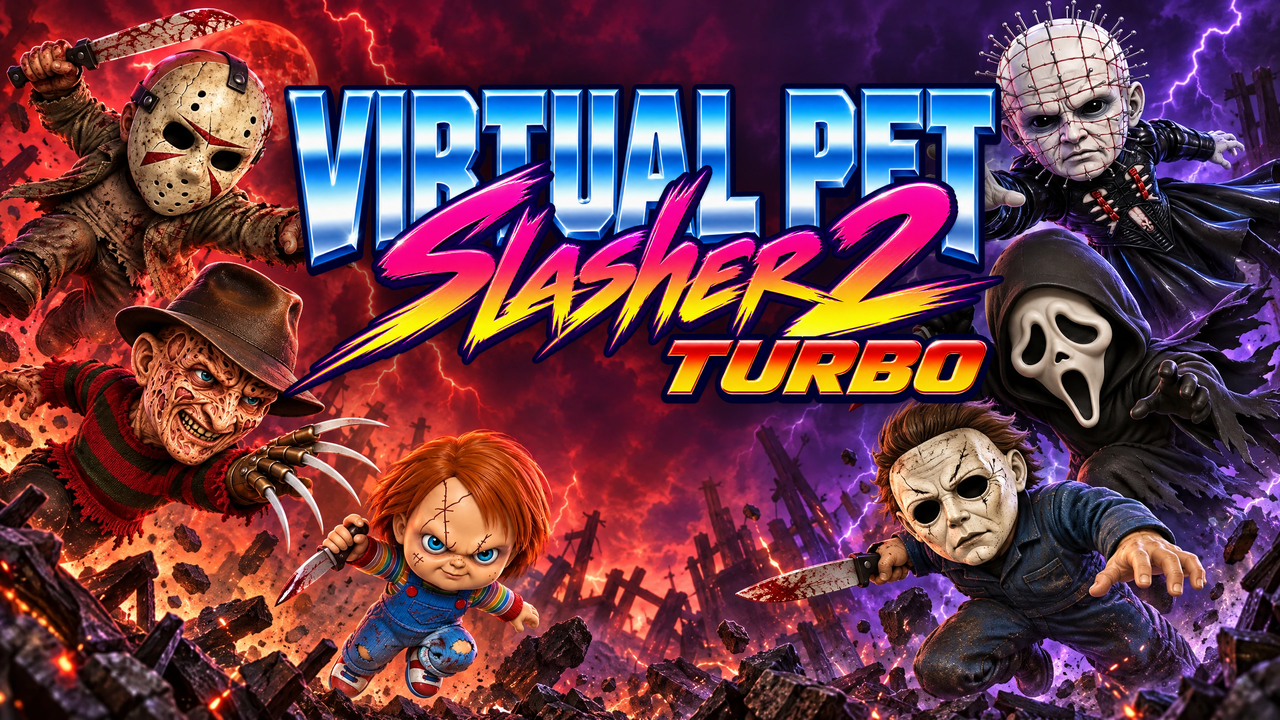
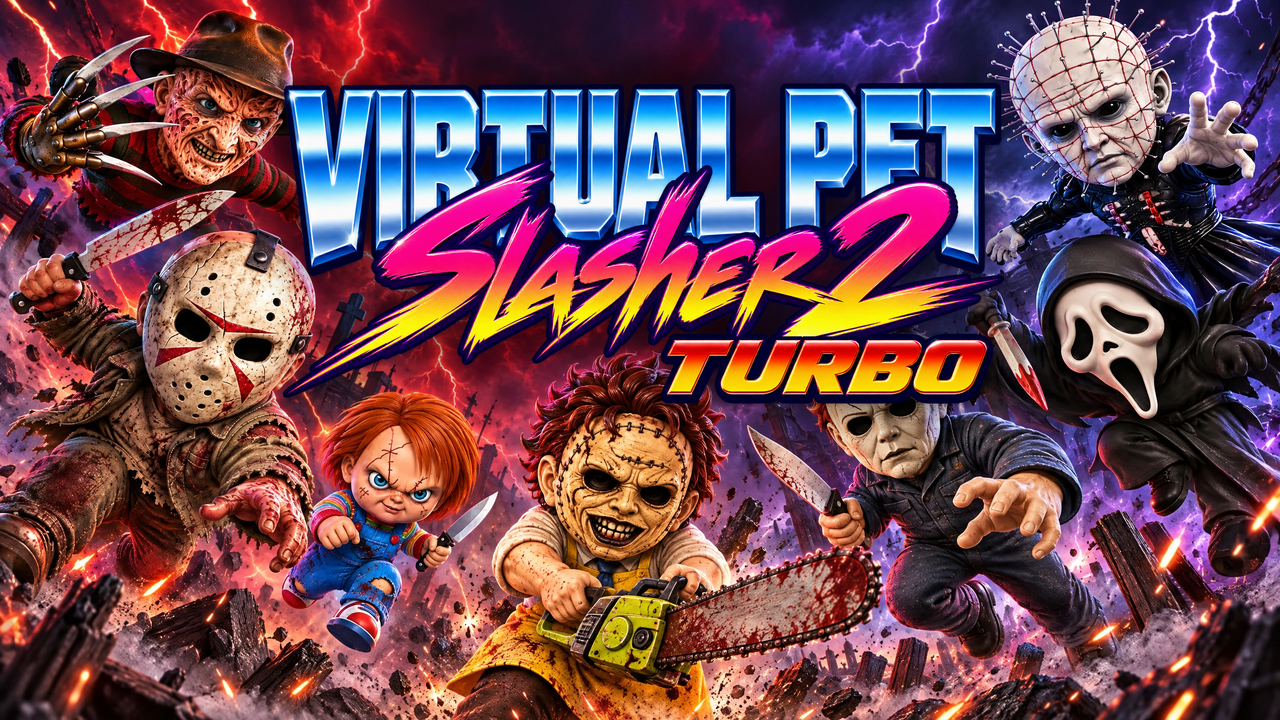
feat(brand): the cover brawls with all seven killers
Leatherface joins the key art: generate_cover.py passes his base render as
a reference and lays the cast out three per side with one charging up the
middle. The picked candidate keeps Chucky at half height and every face
clear of the logo at 320x180; the TV banners and README header are rebuilt
from it.

diff --git a/tools/generate_cover.py b/tools/generate_cover.py
@@ -38,16 +38,18 @@ REFERENCES = [  # (pet, base render, how the prompt describes them)
     ("ghostface", "sprites-source/ghostface/full-resolution/ghostface-base.png", "the black-hooded figure in the white screaming mask with a knife"),
     ("chucky", "sprites-source/chucky/outputs/chucky/chucky-base.png", "the small red-haired doll in denim overalls with a knife"),
     ("michael", "sprites-source/michael/work/michael/decoded/base.png", "the pale-masked man in navy coveralls with a kitchen knife"),
+    ("leatherface", "sprites-source/leatherface/work/little-leatherface/decoded/base.png",
+     "the big stitched-mask butcher in a yellow apron revving a chainsaw"),
 ]
 
 ART_PROMPT = (
     "Epic key-art splash screen for a fighting game, rendered in the exact glossy 3D chibi collectible-figure style of the "
     "reference images. Keep every character exactly on-model (proportions, outfits, masks, colors, weapons): {cast}. "
-    "All six burst toward the camera from every direction like a superhero team-up poster or a platform-fighter splash screen — "
+    "All seven burst toward the camera from every direction like a superhero team-up poster or a platform-fighter splash screen — "
     "leaping, lunging and swinging their weapons at each other, dramatic foreshortening and perspective, motion streaks, sparks, "
     "flying debris, under a stormy red-and-purple night sky with lightning and strong colored rim light. "
-    "The small doll is clearly about half the height of the others. COMPOSITION IS CRITICAL: arrange the six around the left "
-    "edge, right edge and bottom of the frame, three per side, faces and weapons angled in toward the center; the whole "
+    "The small doll is clearly about half the height of the others. COMPOSITION IS CRITICAL: arrange the seven around the left "
+    "edge, right edge and bottom of the frame (three on each side and one charging up from the bottom center), faces and weapons angled in toward the center; the whole "
     "upper-center region (the middle 60% of the width, top 45% of the height) must be EMPTY stormy sky with no character, head, "
     "hand or weapon in it, reserved for a big title logo. No text, letters, numbers, logos or watermark anywhere. Landscape 16:9."
 )
